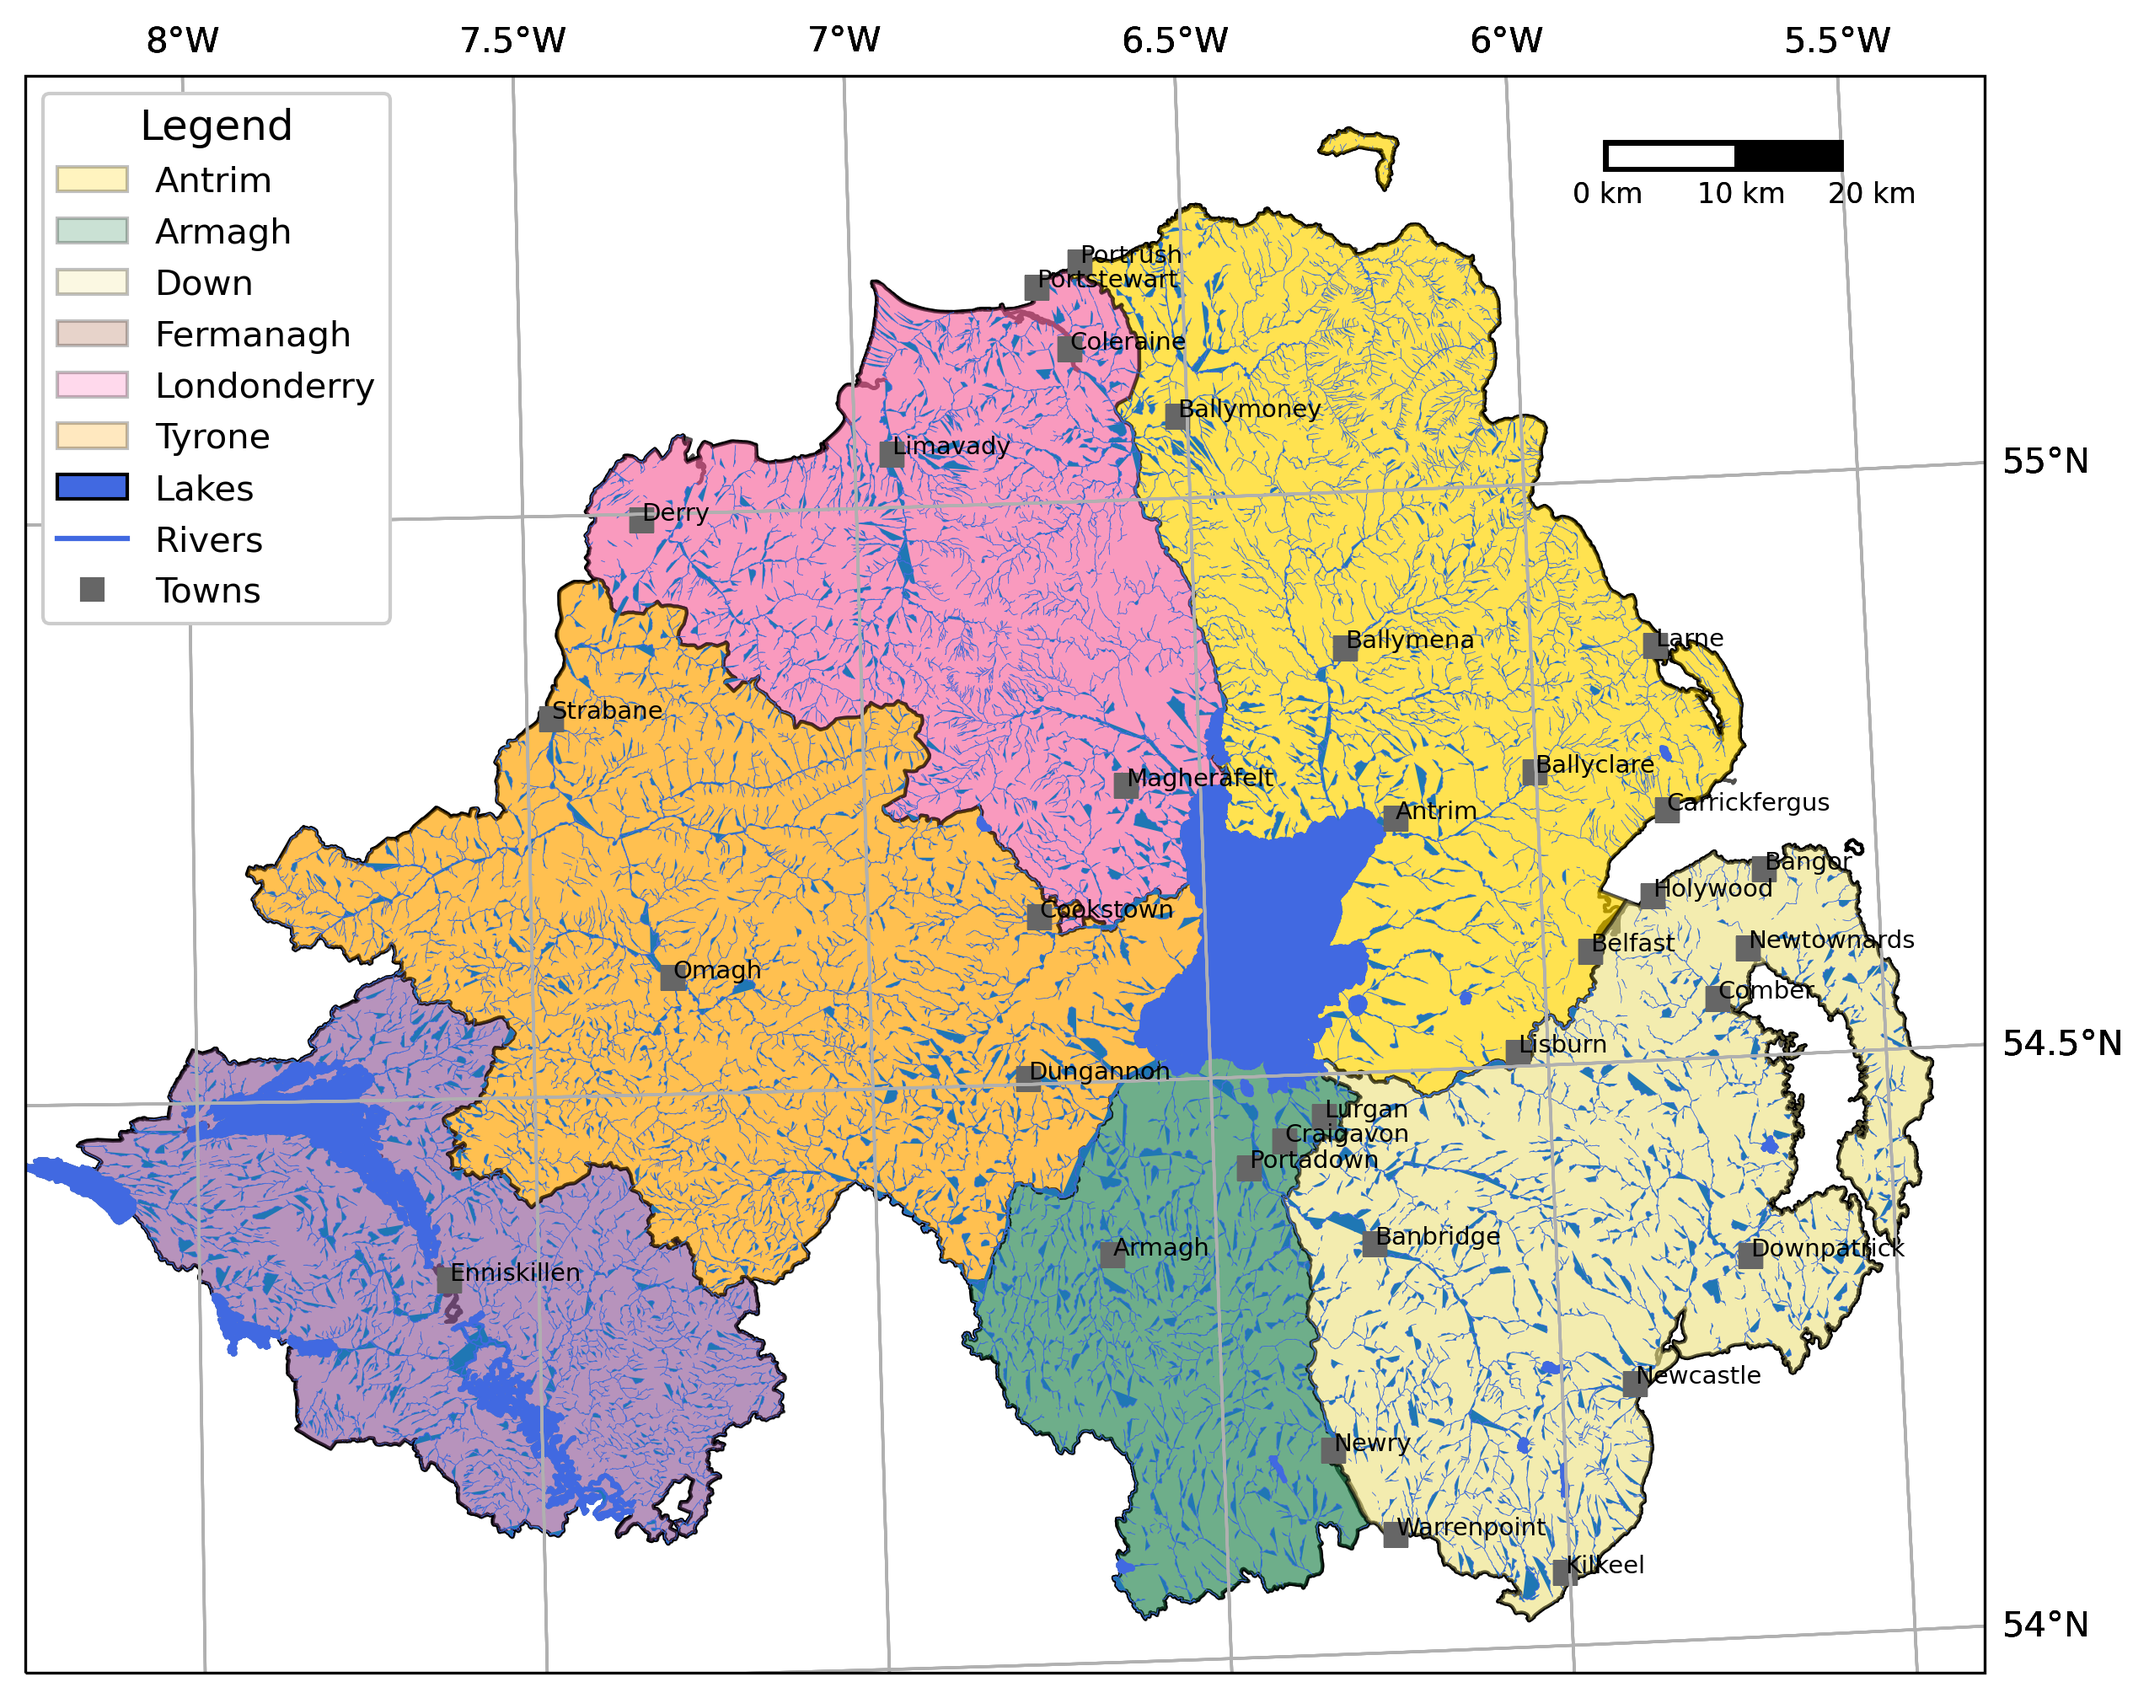
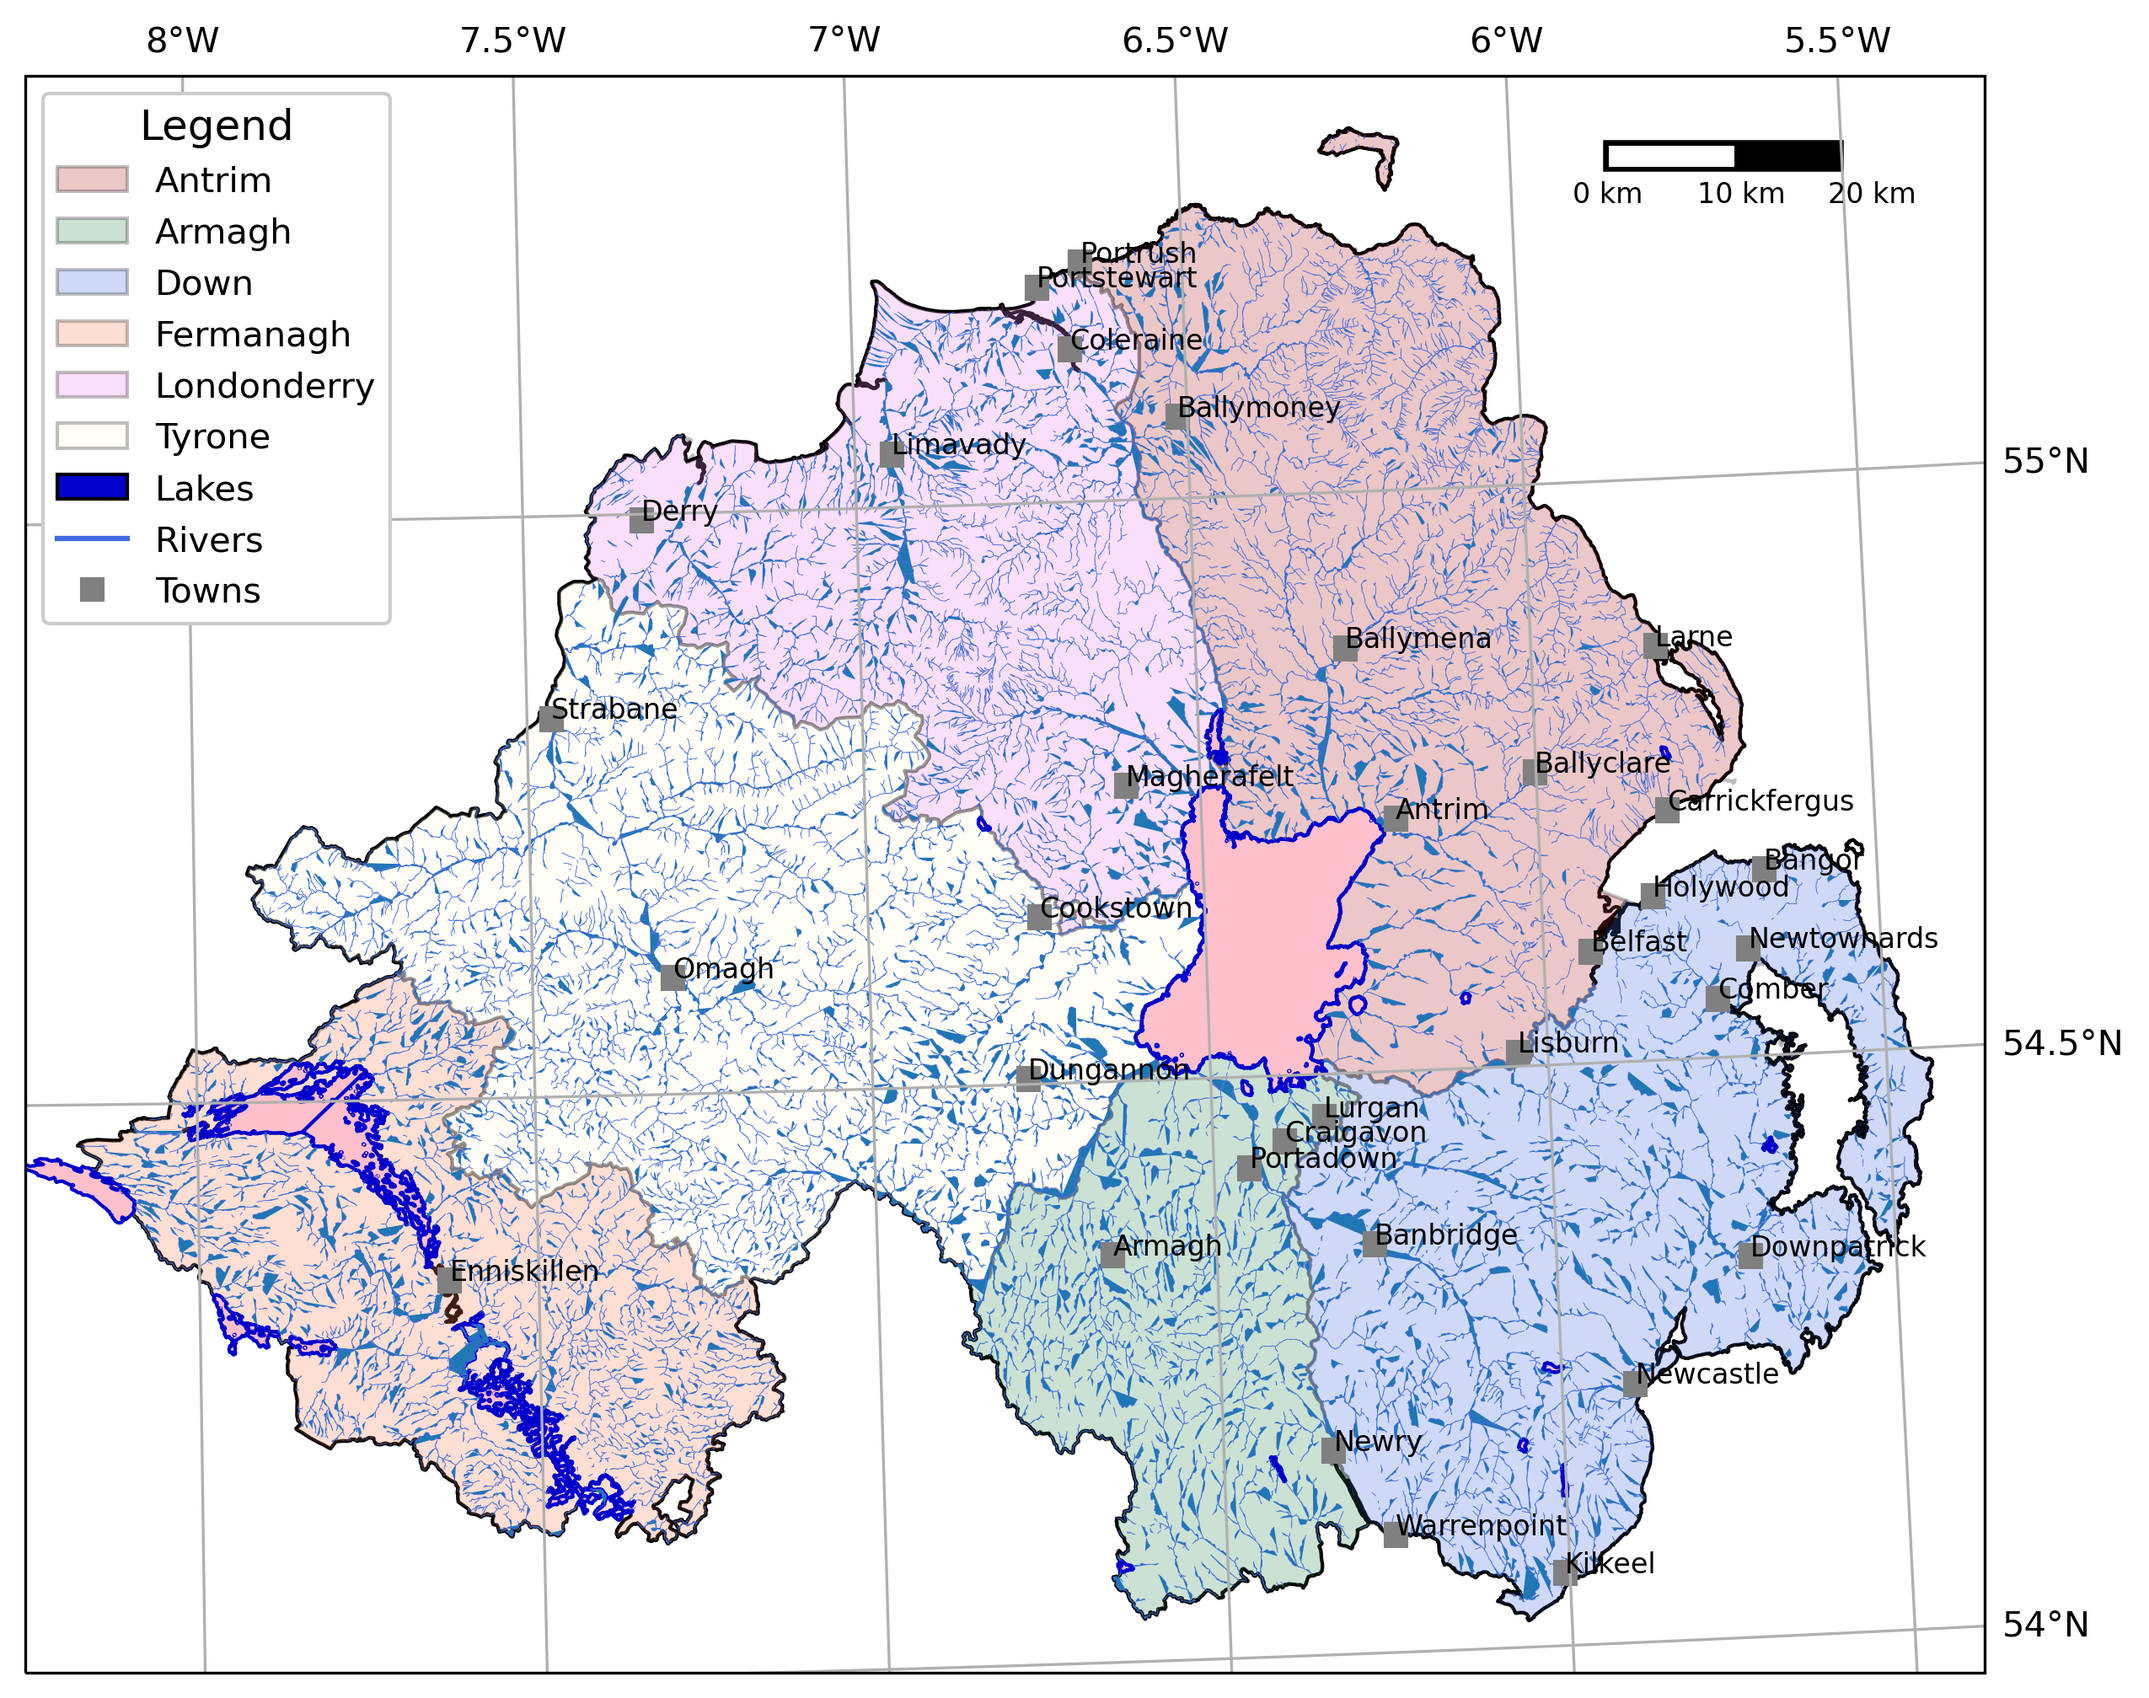
created a new script

diff --git a/Week2/practical2_script.py b/Week2/practical2_script.py
@@ -87,7 +87,7 @@ for ii, name in enumerate(county_names):
 water_feat = ShapelyFeature(water['geometry'],  # first argument is the geometry
                             myCRS,  # second argument is the CRS
                             edgecolor='mediumblue',  # set the edgecolor to be mediumblue
-                            facecolor='mediumblue',  # set the facecolor to be mediumblue
+                            facecolor='pink',  # set the facecolor to be mediumblue
                             linewidth=1)  # set the outline width to be 1 pt
 ax.add_feature(water_feat)  # add the collection of features to the map
 
